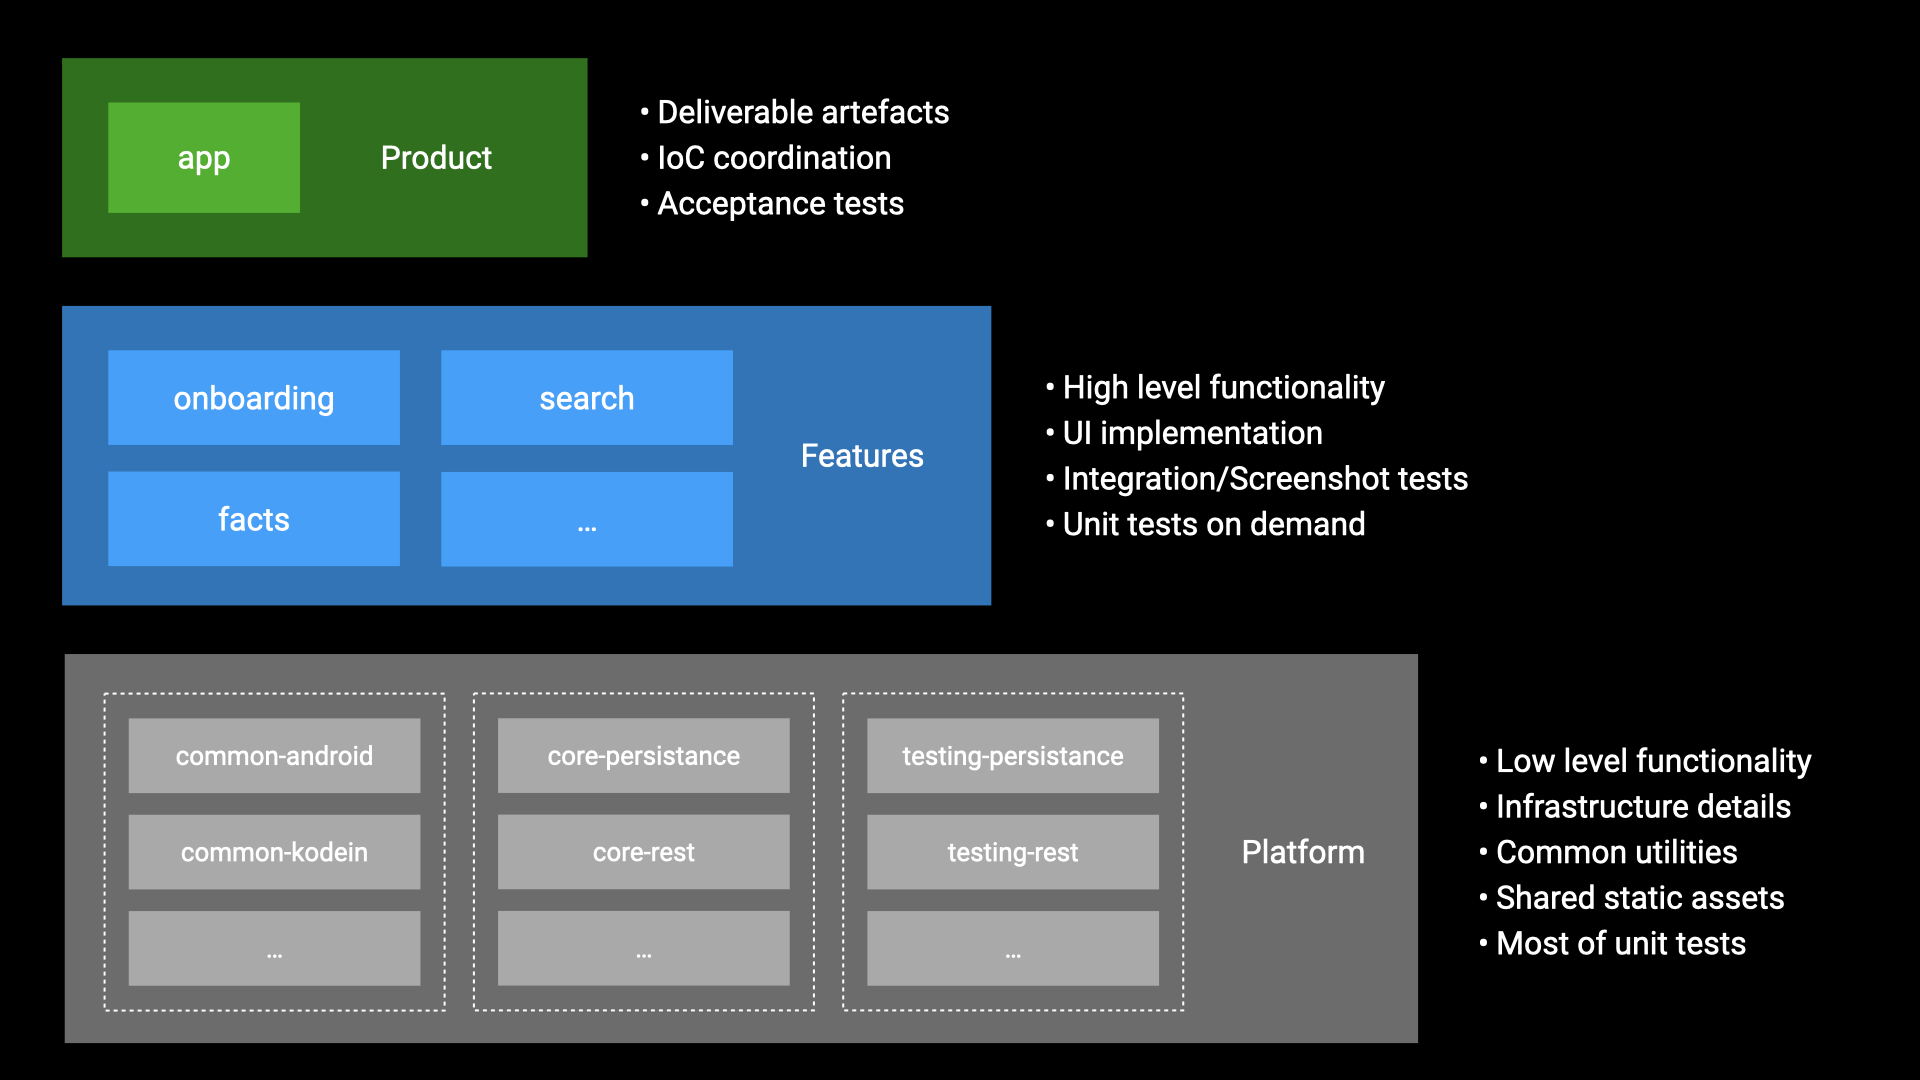
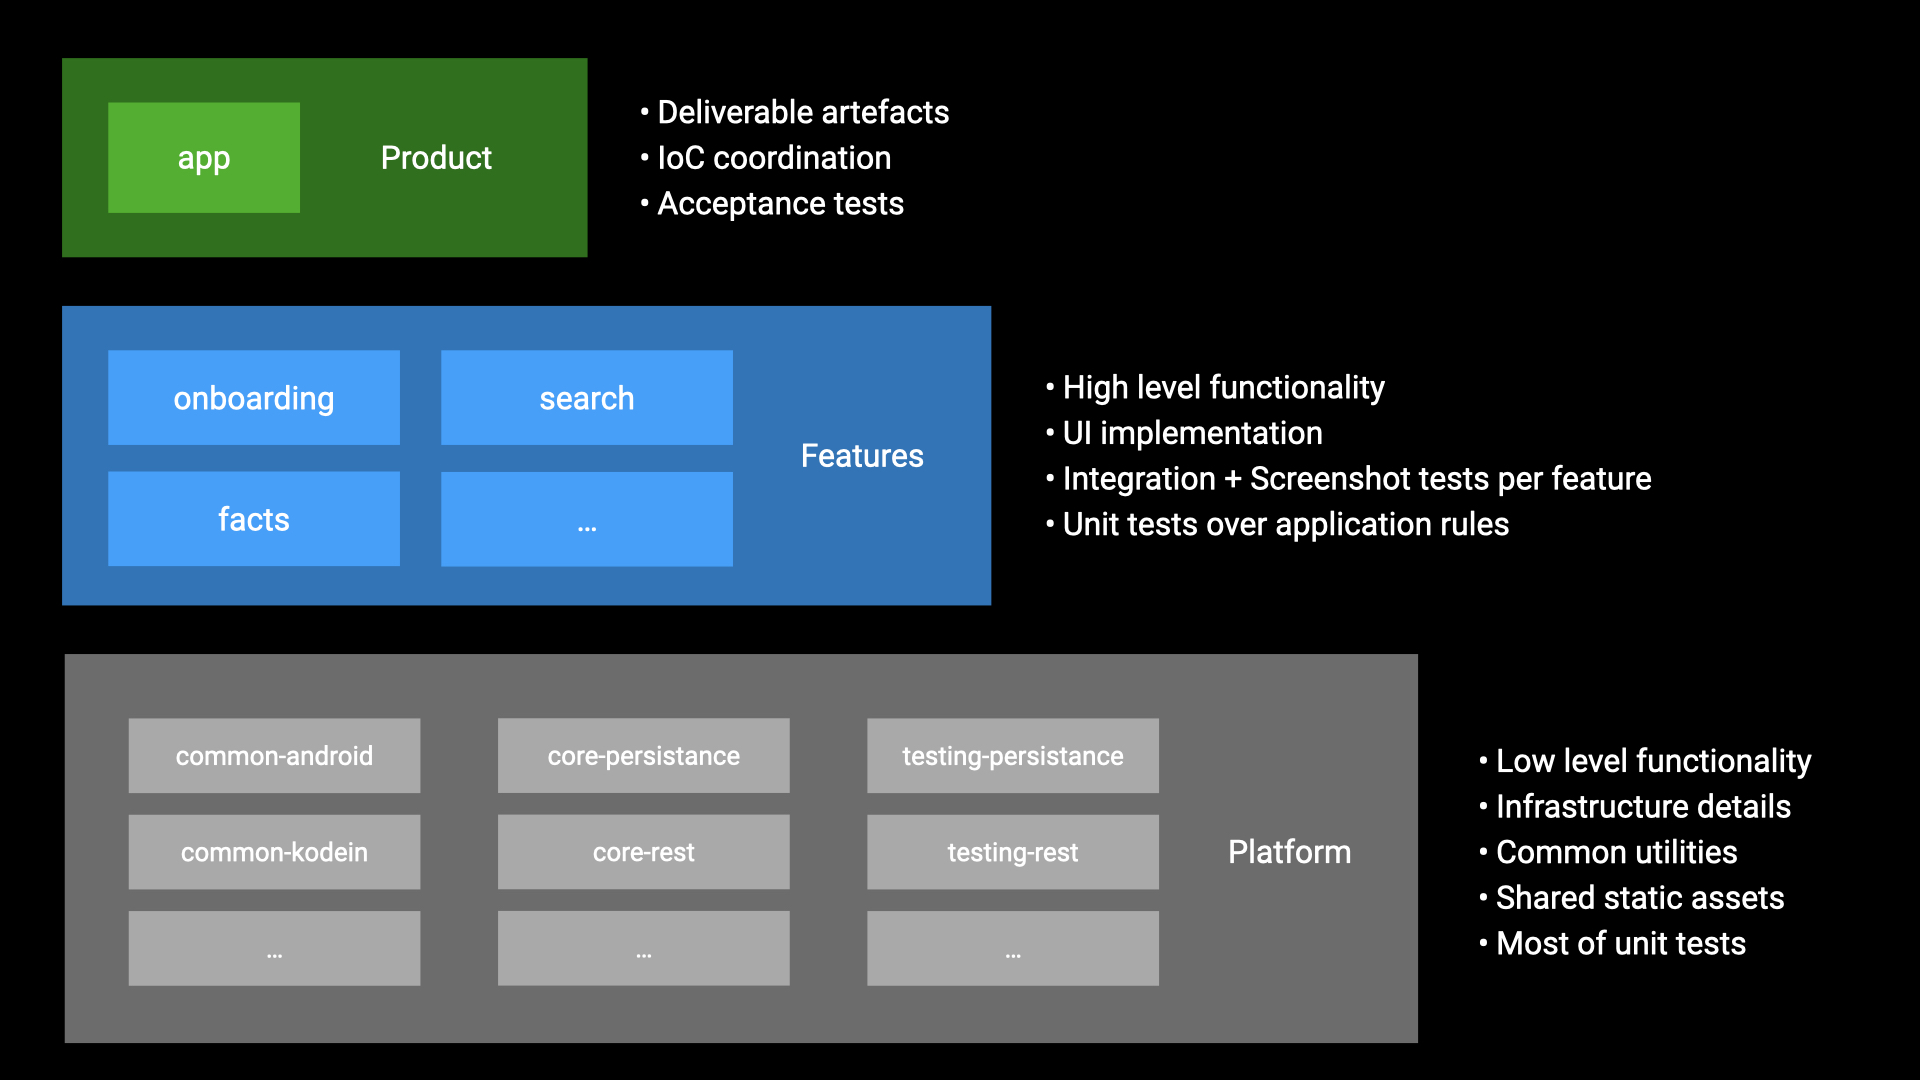
Updates some bits around testing docs (#369)

Changed region(s): [[0.625, 0.4278, 0.875, 0.5194], [0.625, 0.7639, 0.7188, 0.825]]

diff --git a/README.md b/README.md
@@ -84,7 +84,11 @@ so you can chose between :
 - Run acceptance tests over with Espresso
 
 Please note that an online device is required in order to run screenshot/acceptance tests .
-I recommend `api-28/google-apis` with `pixel` device profile as the your AVD configuration for that.
+I recommend `api-28/google-apis` with `pixel` device profile as the your AVD configuration for that. Note that we have a companion `scripts/screenshots-sync.sh` to sync images required for local screenshot testing.
+
+```
+./scripts/screenshots-sync.sh pixel
+```
 
 Also note that local builds **require JDK11**, since this project compiles against Java11 bytecode.
 
